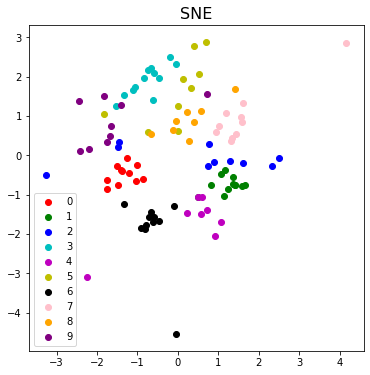
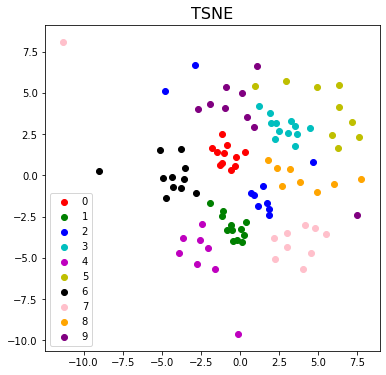
rebuild

diff --git a/post/article/tsne-in-pytorch.md b/post/article/tsne-in-pytorch.md
@@ -1,22 +1,23 @@
 ---
-title: "PyTorchでSNEを実装"
+title: "PyTorchでt-SNEを実装"
 date: 2020-09-17
 tags: ["機械学習", "Python", "PyTorch"]
 
 ---
 
 ## 概要
-高次元データの可視化によく用いられるt-SNEの動作を理解するために、その前身であるSNEを理解する必要が出てきたため、論文を読んで実装してみることにしました。numpyだけでもはずですが、パラメータ更新時の勾配計算で楽をしたいのでPyTorchで実装します。
+高次元データの可視化によく用いられるt-SNEの動作を理解するために、論文を読んで実装してみることにしました。パラメータ更新時の勾配計算で楽をしたいのでPyTorchで実装します。
 
 基本的には[元論文](https://lvdmaaten.github.io/publications/papers/JMLR_2008.pdf)を参考に実装を行いました。
 
 今回使ったコードは[Github]()にあげています。
 
-**注意!!**: 自分で実装して理解することが目的であったため動作は**劇遅**で実用的ではありません。
+**注意!!**: 自分で実装して理解することが目的であったため動作は**劇遅**で実用的ではありません。何かお気づきの方はぜひ教えてください。
 
-## 大まかな実装の流れ
+## SNE
+t-SNEには前身であるSNEなる手法が存在し、t-SNEはSNEの弱点を補った手法です。そこでまずはSNEを実装します。
 
-詳細は論文を参考して頂きたいが、大まかな流れは以下の通り。
+詳細は論文を参考して頂きたいのですが、大まかな流れは以下の通り。
 
 - 入力データ$$X$$(N x d行列)
 - 指定するパラメータは主にn_componentsとperplexity。前者は圧縮したい次元数で後者は後ほど説明。
@@ -41,7 +42,7 @@ tags: ["機械学習", "Python", "PyTorch"]
 
 詳しくは論文を参照ください。
 
-## コード
+***
 
 ```
 class SNE:
@@ -126,10 +127,10 @@ class SNE:
         return y.detach().numpy()
 ```
 
-## 注意点
+### 注意点
 - 論文では、正規分布の分散を二部探索で求めているとの記述がありましたが、上の実装では単に範囲を決め打ちして最も指定のperplexityに近いものを選んでいます。
 
-## 結果
+### 結果
 digitsデータを使ってPCAとSNEによる二次元への次元圧縮の様子を見てみます。
 
 ```
@@ -175,7 +176,7 @@ ax.set_title("PCA", fontsize=16)
 
 ![](/article/img/digits_pca.png)
 
-3と5など被ってしまってるところがあります。
+3と5が大部分被ってしまっていたり、まとまりをうまく捉えられていないところが見受けられます。
 
 次にSNEですが
 
@@ -191,20 +192,166 @@ ax.legend()
 ax.set_title("SNE", fontsize=16)
 ```
 
-![](/article/img/tsne_loss.png)
+![](/article/img/sne_loss.png)
 
 50イテレーションくらいで大体収束してるのがわかります。
 
+![](/article/img/digits_sne.png)
+
+2が若干広く伸びてしまっていますが、全体としてはPCAよりも各数字がギュッとまとまっており、データの構造をよく捉えているように見えます。
+
+## t-SNE
+いよいよt-SNEですが、SNEまで実装してしまえば、大したことはありません。
+
+主な変更点は以下の二つです。（詳細は論文を参照願います）
+
+- symmetricな類似性の導入
+- 低次元空間の類似性を正規分布ではなく、裾の重い自由度1のt分布にする
+
+***
+
+コードです。メソッド名に`_hd`がついているものは高次元空間での計算に用いるもの、`_ld`は低次元空間での計算に用いるものです。
+
+若干重複するコードが多く、あまり美しくないですが...
+
+```
+class TSNE:
+    def __init__(self, n_components, perplexity, lr=0.01, n_epochs=100):
+        self.n_components = n_components
+        self.perplexity = perplexity
+        self.lr = lr
+        self.n_epochs = n_epochs
+
+    def _compute_perplexity_from_sigma(self, data_matrix, center_idx, sigma):
+        similarities = torch.zeros(self.N)
+        for i in range(self.N):
+            similarities[i] = self._similarity_hd(data_matrix[center_idx, :], data_matrix[i, :], sigma)
+        p = torch.zeros(self.N)
+        for i in range(self.N):
+            p[i] = similarities[i] / similarities.sum()
+        shannon = - (p[p != 0] * torch.log2(p[p != 0])).sum()  #ゼロがlogとるとnanになるので省く
+        perp = 2 ** shannon.item()
+        return perp
+
+    def _search_sigmas(self, data_matrix):
+        sigmas = torch.zeros(self.N)
+        sigma_range = np.arange(0.1, 0.6, 0.1)
+        for i in tqdm(range(self.N), desc="search sigma"):
+            perps = np.zeros(len(sigma_range))
+            for j, sigma in enumerate(sigma_range):
+                perp = self._compute_perplexity_from_sigma(data_matrix, i, sigma)
+                perps[j] = perp
+            best_idx = (np.abs(perps - self.perplexity)).argmin()
+            best_sigma = sigma_range[best_idx]
+            sigmas[i] = best_sigma
+        # print(f"Selected sigmas are {sigmas}")
+        return sigmas
+
+    def _similarity_hd(self, x1, x2, sigma):
+        return torch.exp(- ((x1 - x2) ** 2).sum() / 2 * (sigma ** 2))
+
+    def _similarity_ld(self, x1, x2):
+        return (1 + ((x1 - x2) ** 2).sum()) ** (-1)
+
+    def _compute_similarity_hd(self, data_matrix, sigmas):
+        similarities = torch.zeros((self.N, self.N))
+        for i, j in product(range(self.N), range(self.N)):
+            g_ji = self._similarity_hd(data_matrix[i, :], data_matrix[j, :], sigmas[i])
+            similarities[i][j] = g_ji
+        return similarities
+
+    def _compute_similarity_ld(self, data_matrix):
+        similarities = torch.zeros((self.N, self.N))
+        for i, j in product(range(self.N), range(self.N)):
+            g_ji = self._similarity_ld(data_matrix[i, :], data_matrix[j, :])
+            similarities[i][j] = g_ji
+        return similarities
+
+    def _compute_cond_prob_hd(self, similarities):
+        cond_prob_matrix = torch.zeros((self.N, self.N))
+        for i, j in product(range(self.N), range(self.N)):
+            p_ji = similarities[i][j] / similarities[i].sum()
+            cond_prob_matrix[i][j] = p_ji
+
+        cond_prob_matrix = (cond_prob_matrix + torch.t(cond_prob_matrix)) / 2
+        return cond_prob_matrix
+
+    def _compute_cond_prob_ld(self, similarities):
+        cond_prob_matrix = torch.zeros((self.N, self.N))
+        for i, j in product(range(self.N), range(self.N)):
+            p_ji = similarities[i][j] / similarities[i].sum()
+            cond_prob_matrix[i][j] = p_ji
+        return cond_prob_matrix
+
+    def fit_transform(self, X):
+        self.N = X.shape[0]
+        X = torch.tensor(X)
+
+        # init low dimentional y
+        y = torch.randn(size=(self.N, self.n_components), requires_grad=True)
+        optimizer = optim.Adam([y], lr=self.lr)
+
+        sigmas = self._search_sigmas(X)
+        X_similarities = self._compute_similarity_hd(X, sigmas)
+        p = self._compute_cond_prob_hd(X_similarities)
+        loss_history = []
+        for i in tqdm(range(self.n_epochs), desc="fitting"):
+            optimizer.zero_grad()
+            y_similarities = self._compute_similarity_ld(y)
+            q = self._compute_cond_prob_ld(y_similarities)
+
+            kl_loss = (p[p != 0] * (p[p != 0] / q[p != 0]).log()).sum()  # 対角成分のゼロがlogとるとnanになる
+            kl_loss.backward()
+            loss_history.append(kl_loss.item())
+            optimizer.step()
+
+        plt.plot(loss_history)
+        plt.xlabel("epoch")
+        plt.ylabel("loss")
+        return y.detach().numpy()
+```
+
+### 結果
+
+```
+tsne = TSNE(n_components=2, perplexity=50, n_epochs=200, lr=1)
+X_tsne = tsne.fit_transform(X_sc)
+
+fig, ax = plt.subplots(figsize=(6, 6))
+colors = ['r', 'g', 'b', 'c', 'm', 'y', 'k', 'pink', 'orange', 'purple']
+for c, label in zip(colors, digits.target_names):
+    ax.scatter(X_tsne[y == int(label), 0], X_tsne[y == int(label), 1], color=c, label=label)
+ax.legend()
+ax.set_title("TSNE", fontsize=16)
+```
+
+![](/article/img/tsne_loss.png)
+
 ![](/article/img/digits_tsne.png)
 
-PCAよりまとまりがあり、別れてるような気がします。
+どうでしょうか？
 
-perplexityの値は割と敏感らしいのでもう少し調節しても良いと思いますが、とりあえずそれっぽい結果が出ているのでここまでにしようと思います。
+正直各グループのまとまり具合はそんなに変わらないかなーという感じがしますが、
+グループ間の距離が少し空いていて、より見た目がすっきりした感があります。（SNEはごちゃごちゃ全体が固まっている感じ、論文でcrowding problemと呼ばれているもの？）
 
-## 今後の予定
-- 高速化（できるかな...）
-- t-SNEの実装
+perplexityの値は割と敏感らしいのでもう少し調節しても良いと思いますが、とりあえずそれっぽい結果が出ているのでとりあえずここまでにしようと思います。
+
+***
+
+（ちなみに）
+
+2の中に他の2たちからかなり離れている奴らがいますが、見てみるとこんな感じでした。上の段の左から2番目と3番目です。確かに他に比べて癖があるようです。9に近いのも納得できそうです。
+
+![](/article/img/2.png)
+
+![](/article/img/9.png)
+
+
+## TODO
+- 高速化(高次元空間で遠いデータポイント間の類似性をゼロにしてしまうなど近似手法があるようです...)
 
 多分また書きます。
+
+何か間違い等ありましたら遠慮なくご指摘ください。
 
 
